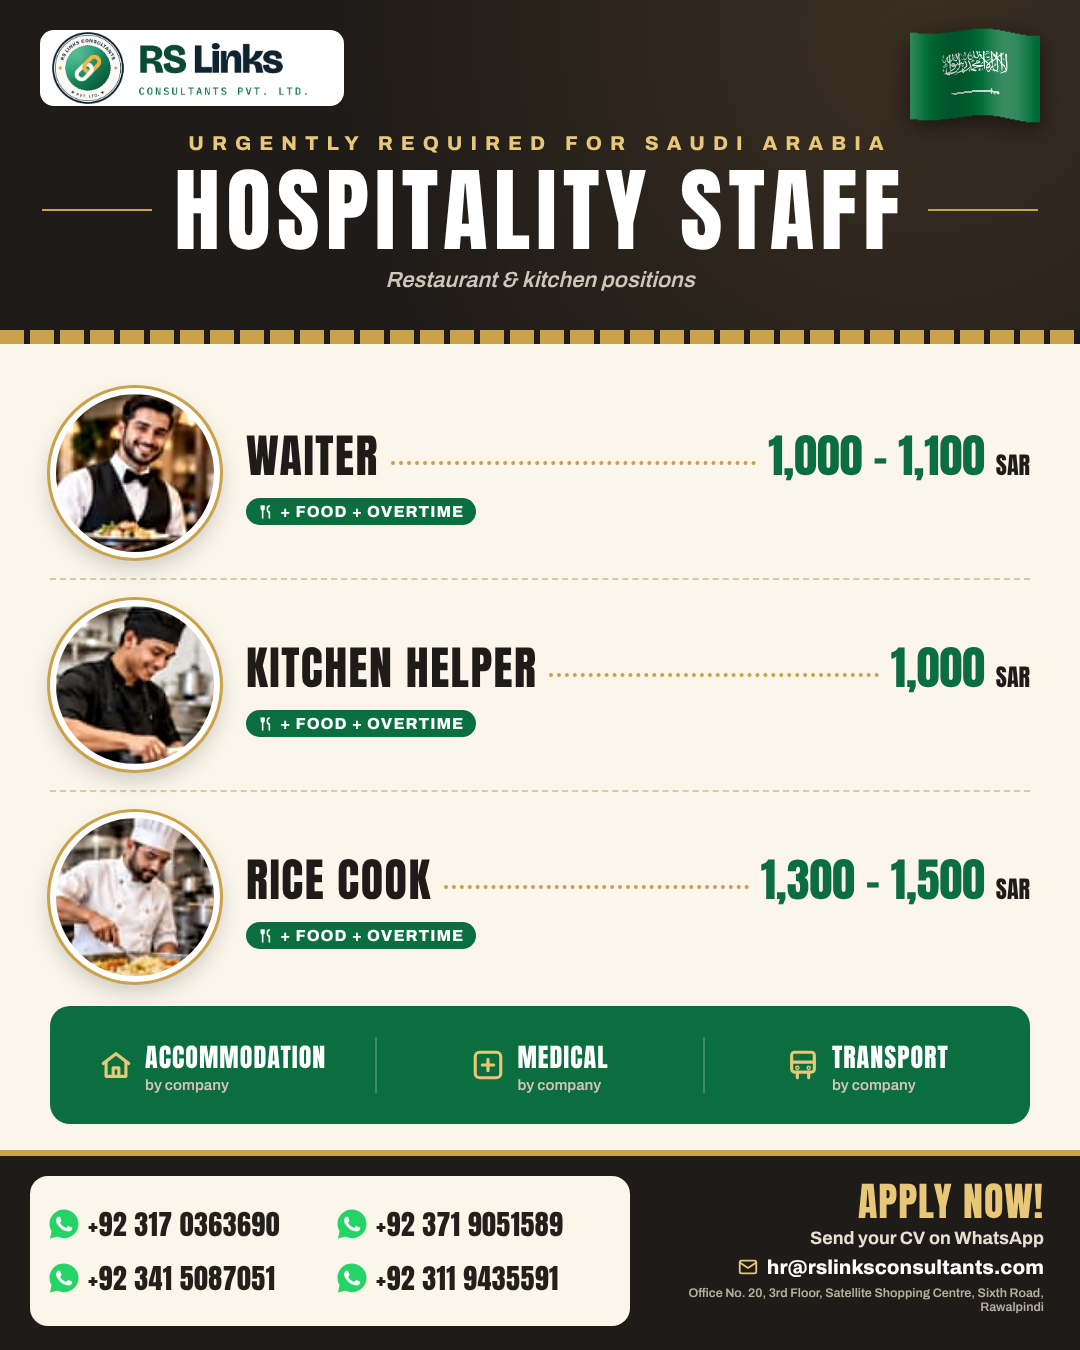
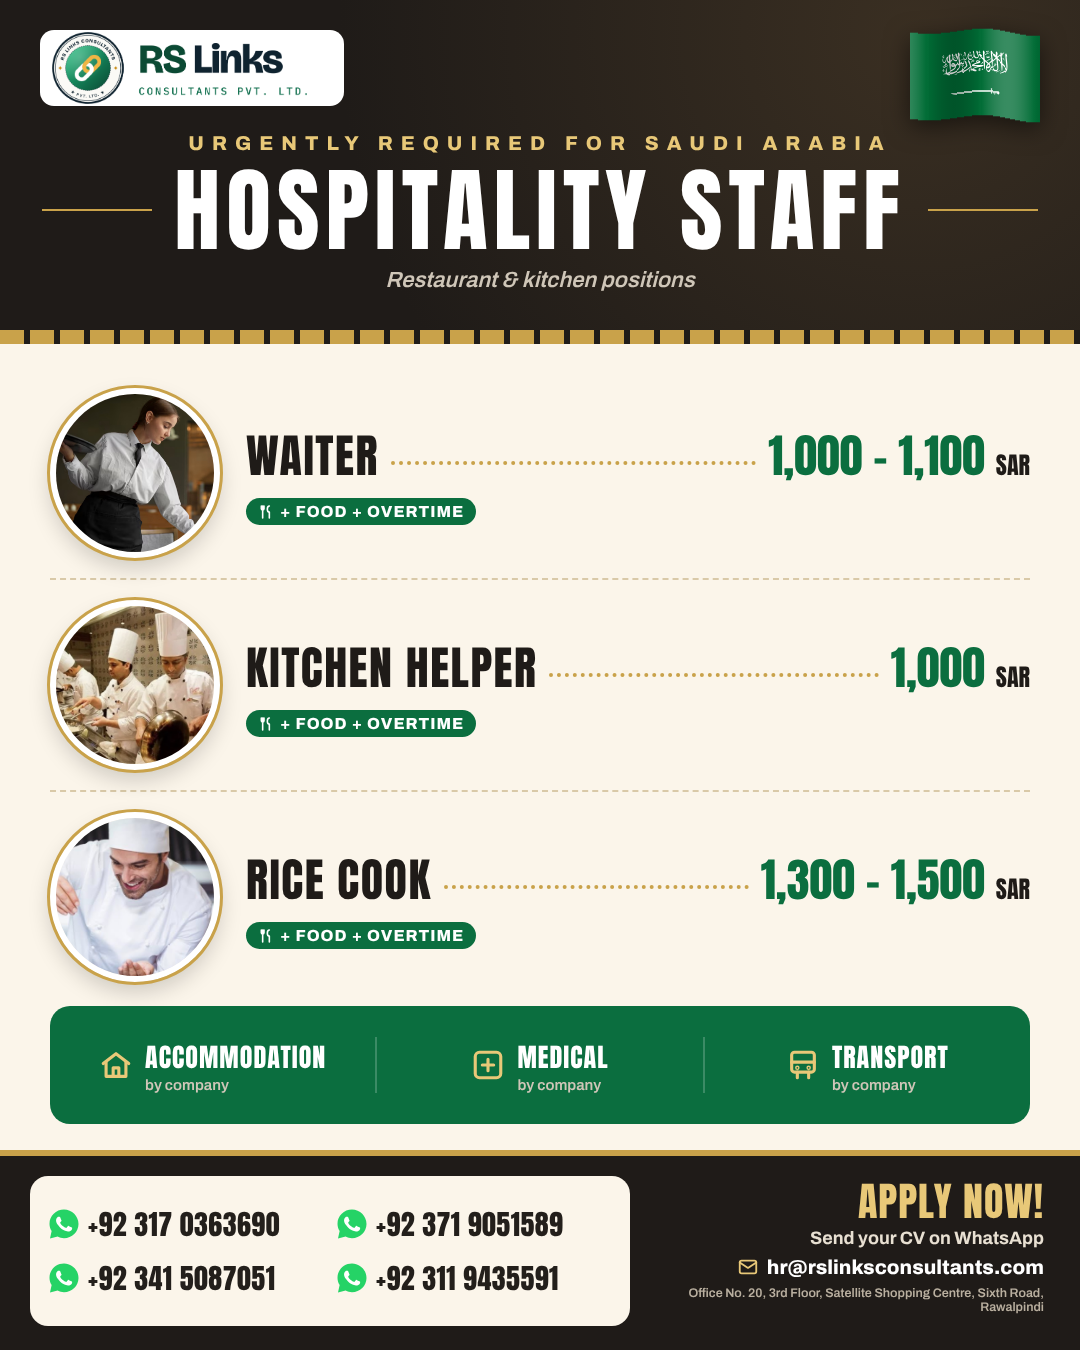
Hospitality ads: user's sharp chef, kitchen team and waiter photos
Claude-Session: https://claude.ai/code/session_01YJ5ofgU8QCiWTsYR9pvXG4

Changed region(s): [[0.0306, 0.4356, 0.2139, 0.7467], [0.0306, 0.28, 0.2139, 0.4044]]

diff --git a/src/saudi_hospitality.py b/src/saudi_hospitality.py
@@ -9,9 +9,9 @@ PAPER, CHAR, GOLD, GOLD2, GRN, INK = "#FBF5EA", "#1F1B18", "#C9A24A", "#E8C878",
 EMAIL = "hr@rslinksconsultants.com"
 ADDRESS = "Office No. 20, 3rd Floor, Satellite Shopping Centre, Sixth Road, Rawalpindi"
 
-JOBS = [("sa_waiter_sharp.jpg", "center 25%", "WAITER", "Restaurant service", "1,000 – 1,100"),
-        ("sa_kitchen_helper_sharp.jpg", "center 30%", "KITCHEN HELPER", "Kitchen support", "1,000"),
-        ("sa_rice_cook_sharp.jpg", "center 25%", "RICE COOK", "Rice &amp; main dishes", "1,300 – 1,500")]
+JOBS = [("sa_waiter2.jpg", "40% 20%", "WAITER", "Restaurant service", "1,000 – 1,100"),
+        ("sa_kitchen2.jpg", "70% 30%", "KITCHEN HELPER", "Kitchen support", "1,000"),
+        ("sa_cook2.jpg", "60% 20%", "RICE COOK", "Rice &amp; main dishes", "1,300 – 1,500")]
 
 
 def build():

diff --git a/src/saudi_hospitality_ur.py b/src/saudi_hospitality_ur.py
@@ -9,9 +9,9 @@ EMAIL = "hr@rslinksconsultants.com"
 N = lambda v: f"<span class='num'>{v}</span>"
 T = lambda s, px, c, extra="", lh=1.75: f"<div class='t' style='font-size:{px}px;color:{c};line-height:{lh};{extra}'>{s}</div>"
 
-JOBS = [("sa_waiter_sharp.jpg", "center 25%", "ویٹر", "WAITER", "1000 – 1100"),
-        ("sa_kitchen_helper_sharp.jpg", "center 30%", "کچن ہیلپر", "KITCHEN HELPER", "1000"),
-        ("sa_rice_cook_sharp.jpg", "center 25%", "رائس کک", "RICE COOK", "1300 – 1500")]
+JOBS = [("sa_waiter2.jpg", "40% 20%", "ویٹر", "WAITER", "1000 – 1100"),
+        ("sa_kitchen2.jpg", "70% 30%", "کچن ہیلپر", "KITCHEN HELPER", "1000"),
+        ("sa_cook2.jpg", "60% 20%", "رائس کک", "RICE COOK", "1300 – 1500")]
 
 
 def build():
